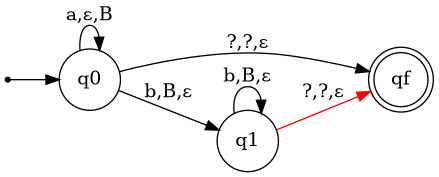
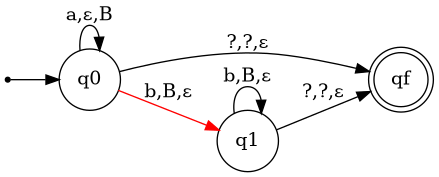
here we go again

diff --git a/pda.py b/pda.py
@@ -1,19 +1,23 @@
-# para poder executar o comando(shell) do graphviz que gera o png apartir do dotfile
+# Importa a biblioteca subprocess para executar comandos do Graphviz que geram o PNG a partir do dotfile
 import subprocess
 
-
-#uma função que transcreve o automato para o dotfile 
+# Função que gera a representação do autômato no dotfile
 def gendot(graph, current):
+    # Abre o arquivo "automata.dot" para escrita
     gra = open("automata.dot", "w+")
 
+    # Escreve o cabeçalho do dotfile
     gra.write('digraph X {\nrankdir=LR;\n')
 
+    # Define o estado inicial como um ponto
     gra.write('init [shape=point]\n')
     gra.write('node[shape=circle]\n')
 
+    # Cria transições do estado inicial para os estados iniciais do autômato
     for x in graph[4]:
         gra.write('init -> {}\n'.format(x))
 
+    # Define os estados finais do autômato com forma de duplo círculo
     finais = "node[shape=doublecircle] "
     for x in graph[5]:
         finais = finais + x
@@ -21,47 +25,50 @@ def gendot(graph, current):
 
     gra.write('node[shape=circle]\n')
 
-    #parte da função que, no dot file especifica as trasiçoes e pode destacalas ou não
+    # Parte da função que especifica as transições no dotfile
+    # e permite destacar uma transição em vermelho se for a atual
     for x in graph[3]:
         if current == -1:
             gra.write(' {} -> {} [label="{},{},{}"]\n'.format(x[0], x[4], x[1], x[2], x[3]))
         else:
             if x == current:
-                #aqui a aresta destacada é colorida de vermelho
+                # A aresta destacada é colorida de vermelho
                 gra.write(' {} -> {} [label="{},{},{}", color="red"]\n'.format(x[0], x[4], x[1], x[2], x[3]))
             else:
                 gra.write(' {} -> {} [label="{},{},{}"]\n'.format(x[0], x[4], x[1], x[2], x[3]))
-    gra.write("}\n") 
+    
+    # Fecha o dotfile
+    gra.write("}\n")
 
 
-# começo do codigo em si, iniciando com o carregamento no codigo dos dados no inputfile
+# Abre o arquivo "inputfile" para leitura
 f = open("inputfile", "r")
 
-#a sextupla aqui é traatada como um vetor de vetores
+# Inicializa uma lista ntupla que representará a sextupla do autômato
 ntupla = []
 
-#coleta os estados
+# Coleta os estados do autômato
 l = f.readline()
 estados = l.split("#")[0]
 estados = estados.split()
 ntupla.append(estados)
 l = f.readline()
 
-#coleta os elementos do alfabeto
+# Coleta os elementos do alfabeto do autômato
 l = f.readline()
 alfab = l.split("#")[0]
 alfab = alfab.split()
 ntupla.append(alfab)
 l = f.readline()
 
-#coleta os simbolos da pilha
+# Coleta os símbolos da pilha do autômato
 l = f.readline()
 pilha = l.split("#")[0]
 pilha = pilha.split()
 ntupla.append(pilha)
 l = f.readline()
 
-#coleta as transiçoes, cada uma sendo seu proprio vetor
+# Coleta as transições do autômato, onde cada transição é representada por um vetor
 l = f.readline()
 trans = []
 while (l != "\n"):
@@ -71,53 +78,53 @@ while (l != "\n"):
 trans.pop()
 ntupla.append(trans)
 
-#coleta o estado inicial
+# Coleta o estado inicial do autômato
 l = f.readline()
 init = l.split("#")[0]
 init = init.split()
 ntupla.append(init)
 
-#coleta os estados finais
+# Coleta os estados finais do autômato
 f.readline()
 l = f.readline()
 termin = l.split("#")[0]
 termin = termin.split()
 ntupla.append(termin)
 
+# Fecha o arquivo após a coleta dos dados
+f.close()
 
-#aqui é gerado a primeira imagem do automato
-#primeiro chamando a função geradora do dotfile
+
+# Geração da primeira imagem do autômato:
+# Primeiro, chamando a função que gera o dotfile
 gendot(ntupla, -1)
-#e então executando o comando shel que gera um png apartir do dotfile
+# Em seguida, executando o comando do Graphviz que gera um arquivo PNG a partir do DOT
 command = 'dot -Tpng automata.dot -o graph.png'
 try:
     subprocess.run(command, shell=True, check=True)
 except subprocess.CalledProcessError as e:
     print(e.stderr)
 
-
-# aqui é onde a fita é imputada no sistema
+# Inserção da fita no sistema
 print("Digite a fita (ex1: 'abaaa' ex2: '')")
 fita = input()
 
-#criação de um auxiliar de posicionamento da fita, pilha e estado inicial carregado no estado atual
+# Criação de auxiliares para posicionar a fita, a pilha e o estado inicial no estado atual
 posfita = 0
 stack = []
 estado = ntupla[4][0]
 
-
-#aqui faremos uma iteração para cada elemento da fita
+# Iteração para cada elemento da fita
 for i in fita:
-    #uma verificação se o elemento  atual faz parte do alfabeto
+    # Verificação se o elemento atual faz parte do alfabeto
     if all(i != item for item in ntupla[1]):
         print(i, " não é aceito pelo autômato \nfita não reconhecida")
         exit()
     
-    #entaõ uma comparação com cada transição para verificar aceitação da fita
+    # Comparação com cada transição para verificar a aceitação da fita
     for j in ntupla[3]:
         if estado == j[0] and i == j[1]:
             if len(stack) != 0 and (stack[-1] == j[2] or j[2] == "ε"):
-                
                 if stack[-1] == j[2]:
                     stack.pop()
                 if j[3] != "ε":
@@ -147,12 +154,12 @@ for i in fita:
                     a = input()
                     break
         
-#caso a fita não possa ser lida completamente ela não é reconhecida
+# Caso a fita não possa ser lida completamente, ela não é reconhecida
 if posfita != len(fita):
     print("fita não reconhecida")
     exit()
 
-#caso a pilha esteja vazia e estiver em um estado final(ou algum com transiçaõ vazia para o final) é reconhecida
+# Caso a pilha esteja vazia e esteja em um estado final (ou algum com transição vazia para o final), é reconhecida
 if len(stack) == 0:
     if any(estado == item for item in ntupla[5]):
         print("fita reconhecida")

diff --git a/README.md b/README.md
@@ -1,14 +1,15 @@
 # LFA
-## Trabalho Final de LFA parte1
-Implementação de um simulador de um PDA(pushdown automata).
+## Trabalho Final de LFA - Parte 1
+Implementação de um simulador de um PDA (pushdown automata).
 
 Linguagem: Python 3.11.6
-Bibliotecas utilizadas: subprocess (para realizar comandos de sistema via python)
-Dependencias: graphviz (sudo apt install graphviz)
+Bibliotecas utilizadas: subprocess (para realizar comandos de sistema via Python)
+Dependências: graphviz (sudo apt install graphviz)
 
 ## Inputfile
-O imput file segue uma estrutura simples: elementos de um mesmo grupo são separados por um espaço e grupos são separados por linhas  
+O input file segue uma estrutura simples: elementos de um mesmo grupo são separados por um espaço e grupos são separados por linhas.
 Exemplo:
+
 ```q0 q1 qf #estados
 
 a b #alfabeto da fita
@@ -26,12 +27,12 @@ q0 #estado inicial
 
 qf #estados finais
 ```
-Reparando que as transições como caso especial não tem linhas as dividindo.
-Outro fator importante para o inputfile são caracteres reservados, sendo `ε` como palavra vazia  e `?` como transição vazia.
+Repare que as transições, como caso especial, não têm linhas as dividindo. Outro fator importante para o inputfile são caracteres reservados, sendo `ε` a palavra vazia e `?` a transição vazia.
 
 ## Funcionamento
-* Com o diretorio LFA aberto executar ```python3 pda.py```.
-* Então o codigo pedir por uma fita, esta deve ser digitada sem espaços Ex: `aaabbb`
-* Para cada passo do automato ele esperara um imput qualquer do usuario para gerar a proxima imagem do automato com a transição atual sendo destacada em vermelho.
-* Por fim o o simulador ira printar no terminal se a fita foi aceita ou não.(caso não seja aceita a imagem do automato permanecera como a ultima entrada aceita da fita)
+- Com o diretório LFA aberto, execute ```python3 pda.py```.
+- Em seguida, o código pedirá por uma fita. Esta deve ser digitada sem espaços, por exemplo: `aaabbb`.
+- Para cada passo do autômato, ele esperará uma entrada do usuário para gerar a próxima imagem do autômato com a transição atual destacada em vermelho.
+- Por fim, o simulador imprimirá no terminal se a fita foi aceita ou não. Caso não seja aceita, a imagem do autômato permanecerá como a última entrada aceita da fita.
+
 
